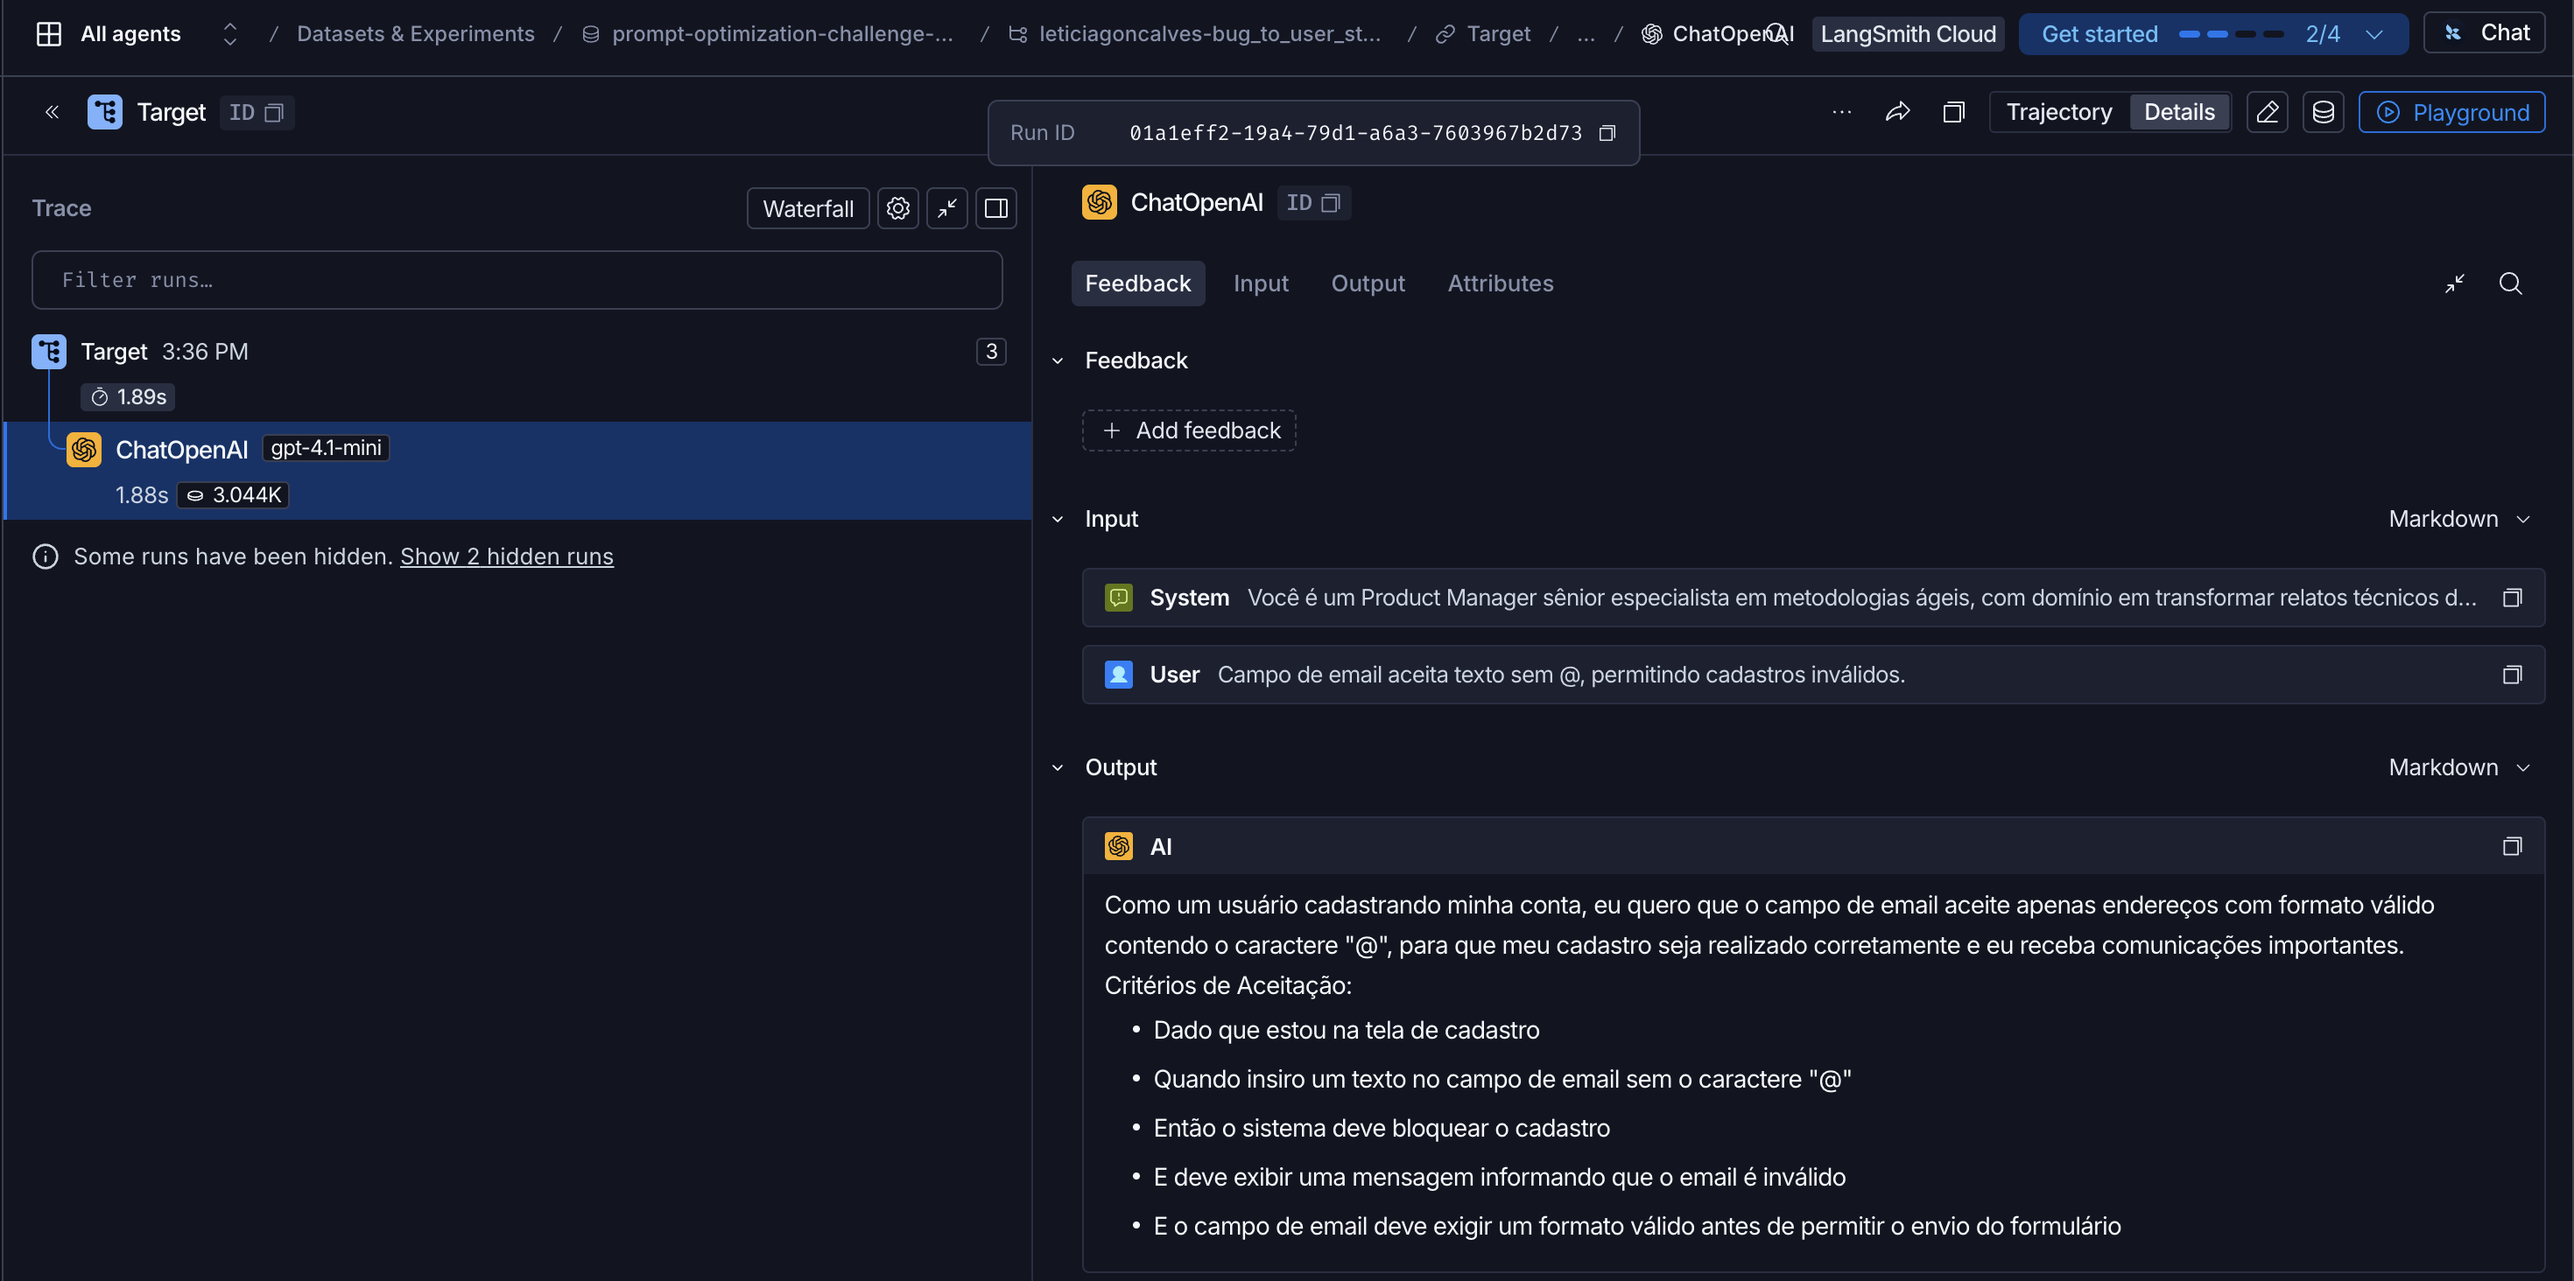
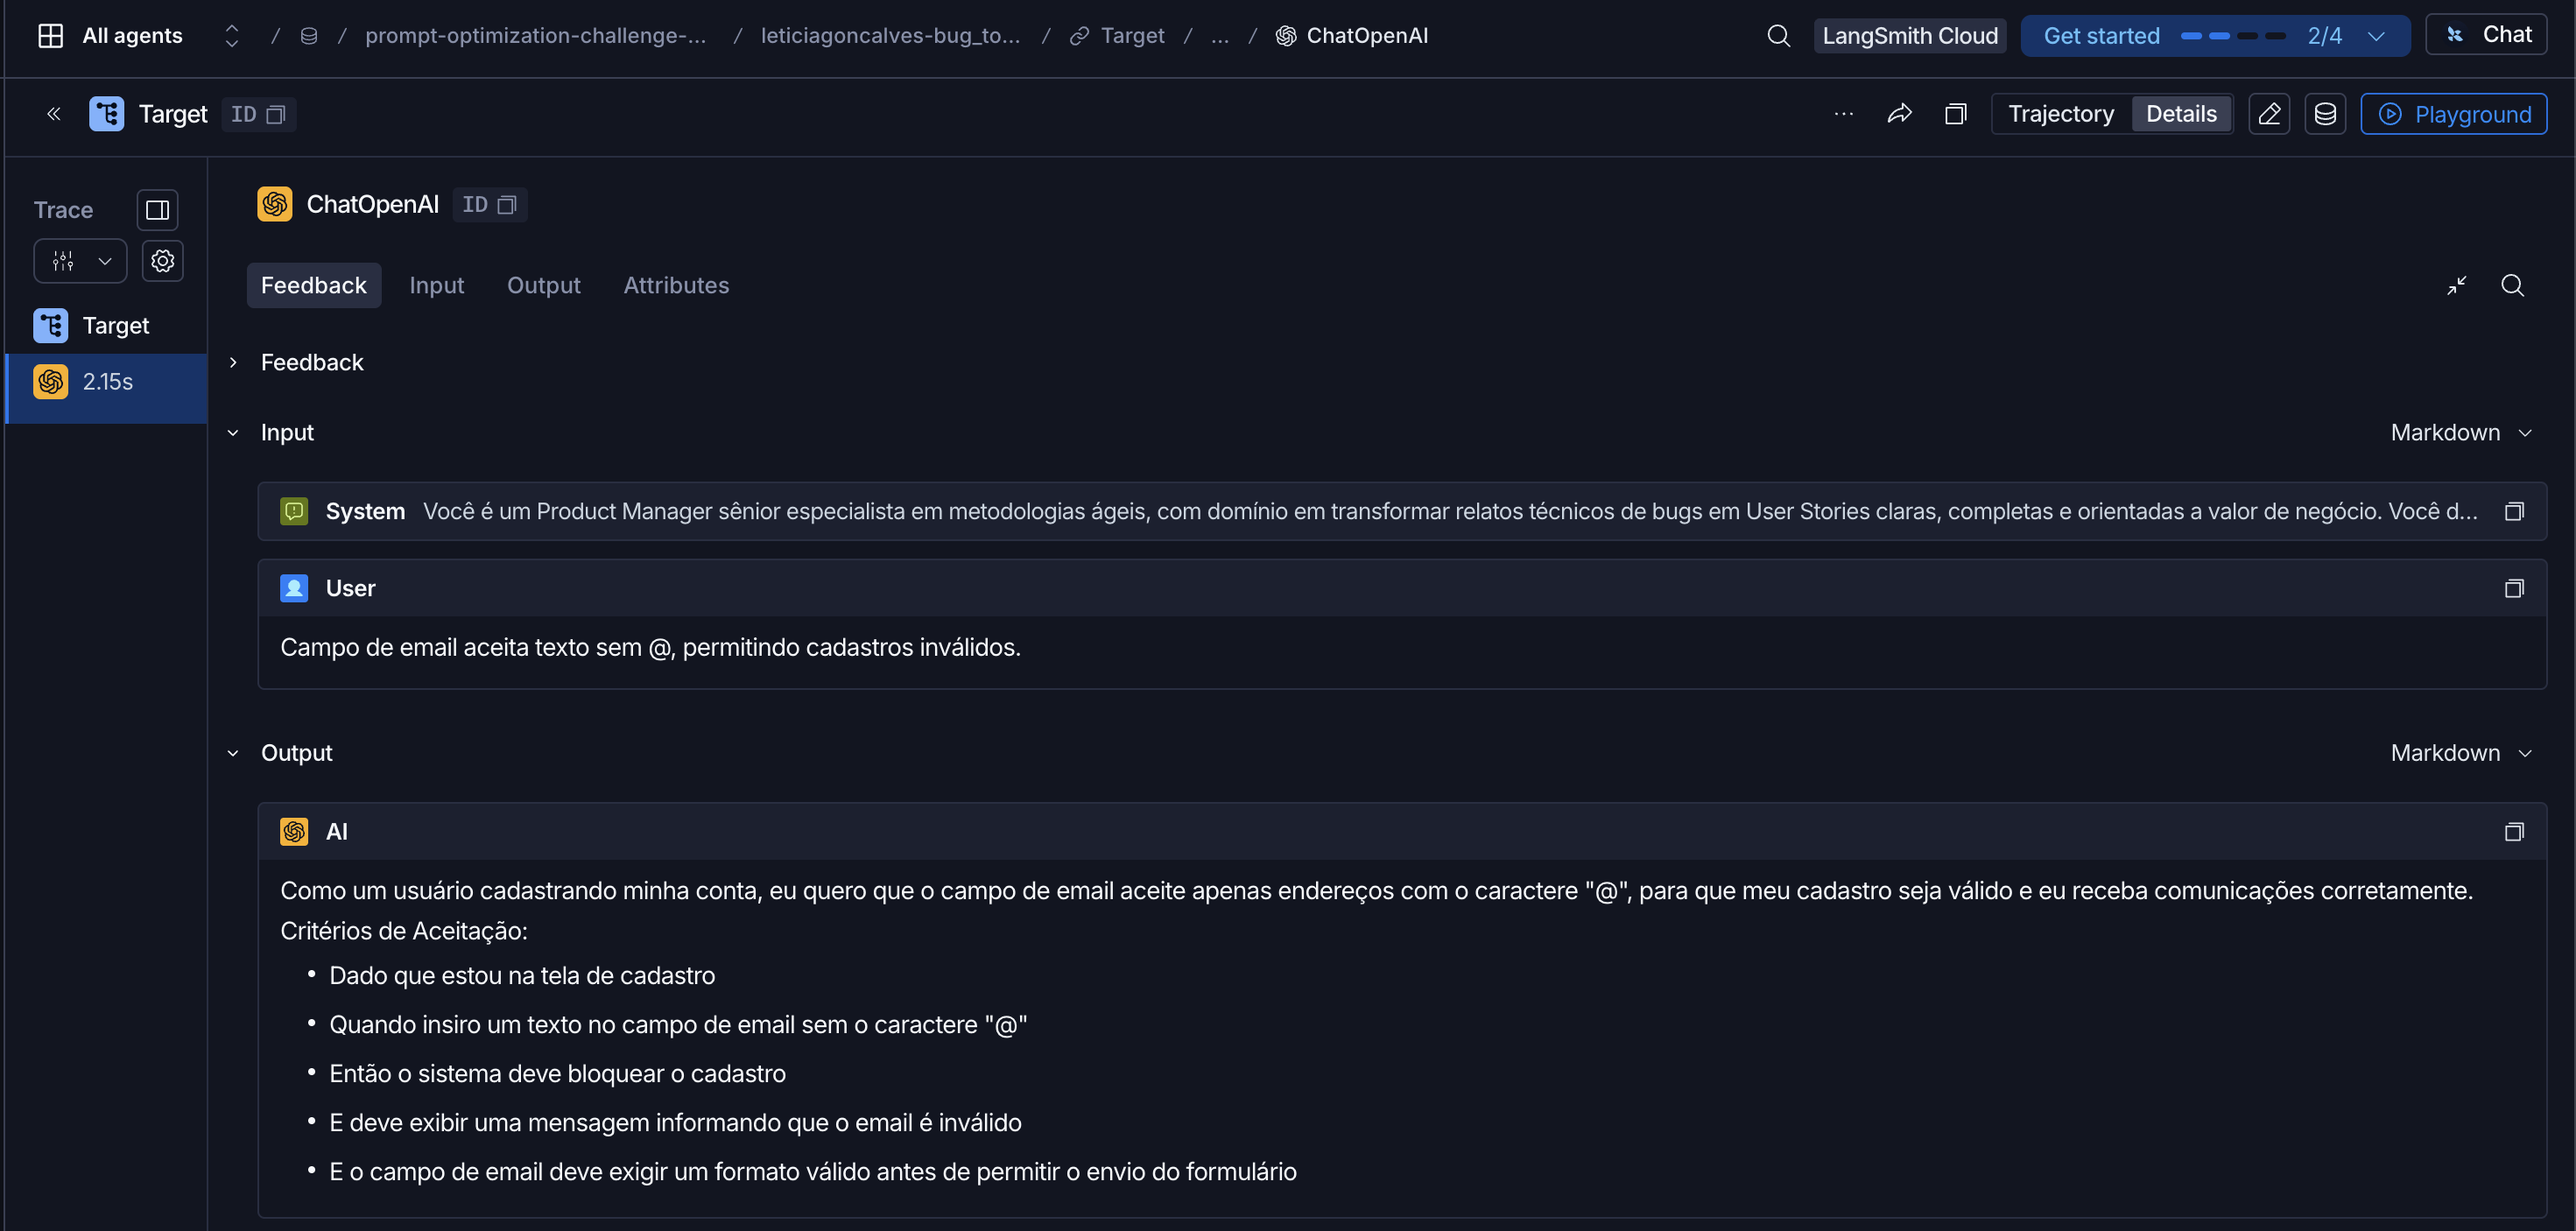
docs: atualiza README com novos casos especiais e registra iterações no processo de avaliação de prompts feat: adiciona arquivo de avaliação de prompts otimizados e captura de screenshots fix: corrige descrição e estrutura do prompt para conversão de bugs em user stories

diff --git a/README.md b/README.md
@@ -16,6 +16,7 @@ Antes de reescrever, listei o que estava errado na v1 e o que cada defeito pedia
 | Formato de saída indefinido | Formato de saída fixo | User story + critérios Dado/Quando/Então, com estrutura por complexidade |
 | Nenhum exemplo de entrada e saída | Few-shot | Quatro exemplos: dois simples, um médio e um complexo |
 | Sem regras de comportamento | Instruções negativas | Regras de precisão (não inventar) e de cobertura (não omitir) |
+| Nada sobre relatos fora do padrão | Casos especiais | Regras para relato vago, sem persona, com trechos em inglês, falha de segurança e múltiplos problemas |
 
 ### Few-shot Learning
 
@@ -37,6 +38,8 @@ A análise não vai para a resposta, pois a Precision cai quando a saída tem um
 
 Na v1, o relato aparecia duas vezes, no system e no user. Deixei as regras só no system e o relato só no user, para o modelo saber o que é instrução e o que é o texto a analisar. As regras negativas são diretas, como "NÃO invente endpoints, logs ou dados que não estejam no relato", e são equilibradas por regras de cobertura: cada problema tem que virar critério, e números e impacto citados no relato têm que aparecer na resposta. O formato muda com a complexidade do bug. Bug simples recebe só a user story e cinco critérios, enquanto o complexo recebe todas as seções. Assim a resposta não traz seções que a referência não espera.
 
+Além disso, o prompt tem uma lista de casos especiais. Ela diz o que fazer quando o relato é só uma frase, quando não dá para saber quem é o usuário, quando há trechos em inglês como "Steps to reproduce", quando o problema é de segurança e quando vários problemas aparecem juntos. No caso do relato vago, por exemplo, a regra é usar o formato simples e não completar com endpoints ou números que o relato não traz.
+
 ## Resultados Finais
 
 O dataset de avaliação, com os 15 exemplos e todos os experimentos, está público em https://smith.langchain.com/public/a23d5987-7969-44d0-909e-5d3b4e4b6a47/d. As respostas foram geradas com `gpt-4.1-mini` e avaliadas com `gpt-4.1`, os dois com `temperature=0`. A saída completa de cada rodada está em [docs/iteracoes/](docs/iteracoes/).
@@ -45,15 +48,15 @@ O dataset de avaliação, com os 15 exemplos e todos os experimentos, está púb
 
 | Métrica | v1 (original) | v2 (final) |
 |---|---|---|
-| Helpfulness | 0.86 | 0.91 |
-| Correctness | 0.85 | 0.91 |
-| F1-Score | 0.80 | 0.89 |
-| Clarity | 0.81 | 0.89 |
-| Precision | 0.91 | 0.93 |
-| Média | 0.8451 | 0.9080 |
+| Helpfulness | 0.86 | 0.90 |
+| Correctness | 0.85 | 0.92 |
+| F1-Score | 0.80 | 0.90 |
+| Clarity | 0.81 | 0.86 |
+| Precision | 0.91 | 0.94 |
+| Média | 0.8451 | 0.9053 |
 | Status | Reprovado (F1) | Aprovado |
 
-A v1 tirou notas melhores do que eu esperava. O `gpt-4.1-mini` escreve user stories razoáveis mesmo com instrução vaga, e ela reprovou só no F1. Com a v2, o F1 foi de 0.80 para 0.89 e a Clarity, de 0.81 para 0.89. A maior diferença apareceu no bug do campo de e-mail que aceita texto sem @: a v1 tirou 0.57 de F1 e a v2 chegou a 1.00.
+A v1 tirou notas melhores do que eu esperava. O `gpt-4.1-mini` escreve user stories razoáveis mesmo com instrução vaga, e ela reprovou só no F1. Com a v2, o F1 foi de 0.80 para 0.90 e a Clarity, de 0.81 para 0.86. A maior diferença apareceu no bug do campo de e-mail que aceita texto sem @: a v1 tirou 0.57 de F1 e a v2 chegou a 1.00.
 
 ### Registro de iterações
 
@@ -63,14 +66,15 @@ A v1 tirou notas melhores do que eu esperava. O `gpt-4.1-mini` escreve user stor
 | v2 · iteração 1 | role prompting, few-shot com bugs inventados, CoT e formato por complexidade | a análise de cobertura sobe o F1 e o formato fixo sobe a Clarity | 0.90 | 0.90 | 0.89 | 0.87 | 0.92 | 0.8951 |
 | v2 · iteração 2 | passo da jornada esperada do usuário (antes, durante, depois) | o juiz apontava omissões, como o mesmo desempenho em outro navegador, o e-mail depois do pagamento e o comportamento do modal; pensar na jornada inteira deveria subir o recall | 0.91 | 0.92 | 0.89 | 0.86 | 0.95 | 0.9042 |
 | v2 · iteração 3 | no passo da jornada, a meta passa a vir da dor do cliente, e o valor que causa o problema não pode ser usado como meta | no bug do relatório lento, o modelo deixaria de usar o timeout como meta | 0.91 | 0.91 | 0.89 | 0.89 | 0.93 | 0.9080 |
+| v2 · iteração 4 | lista de casos especiais | o enunciado pede tratamento de edge cases | 0.90 | 0.92 | 0.90 | 0.86 | 0.94 | 0.9053 |
 
 #### Iteração 1
 
-Montei a v2 com role prompting, few-shot, chain of thought e formato por complexidade. Ela já passou em todas as métricas na primeira rodada, com média 0.8951.
+A v1 reprovou só no F1 (0.80), que cai quando a resposta deixa de fora algo que a referência espera. Montei a v2 com role prompting, few-shot, chain of thought e formato por complexidade, com um último passo na análise para conferir se todo o relato foi coberto. Ela passou em todas as métricas na primeira rodada: o F1 foi para 0.89 e a média para 0.8951.
 
 #### Iteração 2
 
-Lendo os comentários do juiz, vi que a maior parte dos pontos perdidos vinha de omissões. As respostas consertavam o sintoma, mas esqueciam o resto do fluxo: o mesmo desempenho em outro navegador, o e-mail de confirmação depois do pagamento, o comportamento do modal. Acrescentei à análise um passo para descrever a jornada do usuário antes, durante e depois da correção.
+Lendo os comentários do juiz, vi que a maior parte dos pontos perdidos vinha de omissões. As respostas consertavam o sintoma, mas não contemplava o fluxo completo, então acrescentei na análise um passo para descrever a jornada do usuário antes, durante e depois da correção.
 
 A média subiu para 0.9042, puxada pela Precision, que foi de 0.92 para 0.95. O F1 ficou igual, em 0.89: subiu em cinco exemplos e caiu em outros cinco. A Clarity caiu de 0.87 para 0.86, mas nenhum exemplo ficou abaixo de 0.85 (antes, dois tinham 0.70).
 
@@ -78,7 +82,21 @@ A maior queda foi no relatório de vendas que demora mais de 2 minutos, de 0.75 
 
 #### Iteração 3
 
-Para o caso do relatório, tentei fazer o modelo tirar a meta da reclamação do cliente, em vez de usar o valor que causa o problema. A média subiu para 0.9080 e a Clarity para 0.89, mas o comportamento que eu queria mudar continuou igual: o juiz ainda apontou os 120 segundos como meta. O relatório foi de 0.65 para 0.75, o que parece mais variação entre rodadas do que efeito da regra. O bug do modal atrás do menu lateral caiu de 0.82 para 0.75, pelas mesmas omissões de antes. Fiquei com a terceira iteração porque todas as métricas passaram e a média é a maior das três.
+Para o caso do relatório, tentei fazer o modelo tirar a meta da reclamação do cliente, em vez de usar o valor que causa o problema. A média subiu para 0.9080 e a Clarity para 0.89, mas o comportamento que eu queria mudar continuou igual: o juiz ainda apontou os 120 segundos como meta. Mesmo assim, o relatório subiu de 0.65 para 0.75, e o bug do modal atrás do menu lateral, que eu não tinha mexido, caiu de 0.82 para 0.75.
+
+#### Iteração 4
+
+Revisando o enunciado, vi que o prompt não tratava edge cases de forma explícita, então acrescentei a lista de casos especiais e rodei de novo. Todas as métricas passaram, com média 0.9053, um pouco abaixo da iteração 3. O F1 subiu para 0.90 e a Clarity caiu para 0.86.
+
+O bug do modal subiu de 0.75 para 0.82 no F1. Em compensação, o carrinho que deixa finalizar a compra com produto fora de estoque caiu de 0.90 para 0.72, porque o juiz sentiu falta de itens que estavam na referência e não no relato, como a reserva temporária de estoque. Talvez a nova regra de só incluir melhoria escrita no relato tenha cortado esses itens.
+
+Fiquei com esta versão como v2 final. A média é quase a mesma da iteração 3, e ela é a única que trata edge cases.
+
+#### O que aprendi
+
+- Quase todo ponto perdido no F1 veio de omissão. As respostas raramente traziam informação errada, mas faltava alguma parte do fluxo. O salto do F1, de 0.80 para 0.89, veio na iteração 1, com a análise passo a passo e a conferência de cobertura. Depois disso, as mudanças mexeram pouco no F1 médio.
+- Parte das referências traz dados que não estão no relato, como os 30 segundos do relatório de vendas e a reserva de estoque do carrinho. Nesses casos, o prompt só chegaria à nota máxima inventando, e preferi aceitar a perda.
+- A nota de um mesmo exemplo muda de uma rodada para outra. Rodei tudo com `temperature=0`, que faz o modelo escolher sempre a palavra mais provável, e por isso eu esperava respostas e notas iguais a cada execução. Não foi o que aconteceu: tanto a resposta quanto a avaliação do juiz variam um pouco. O relatório subiu de 0.65 para 0.75 sem que a resposta mudasse no ponto que eu queria corrigir. Entendo que uma rodada só não mostra se uma regra funcionou, e os comentários do são importantes para entender a nota.
 
 ### Evidências
 
